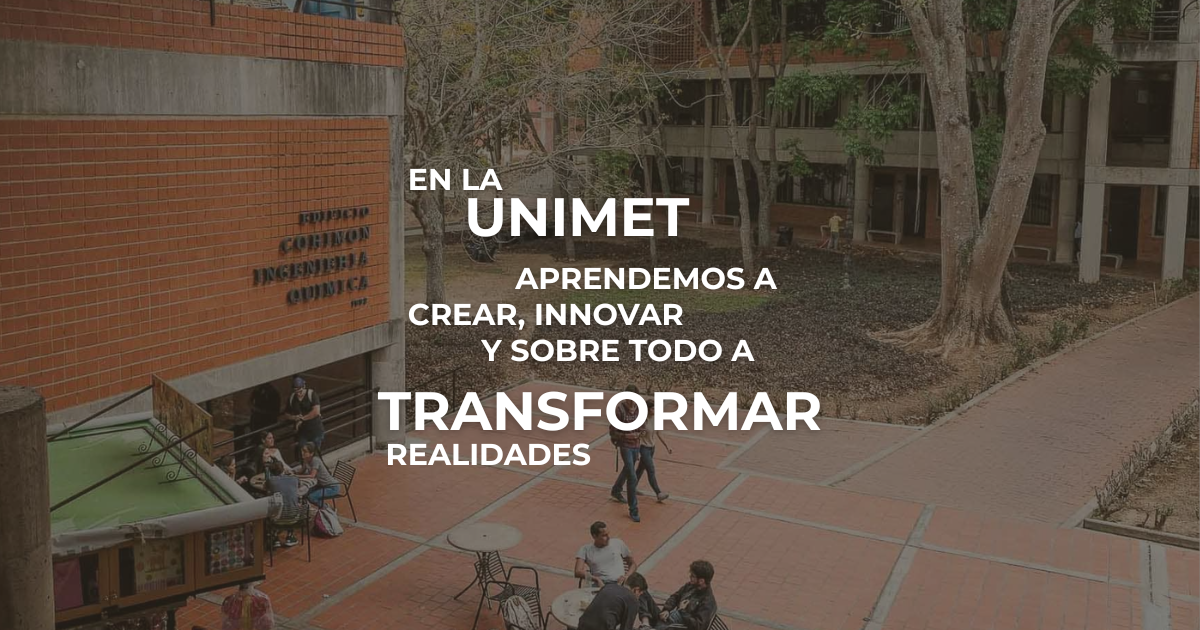
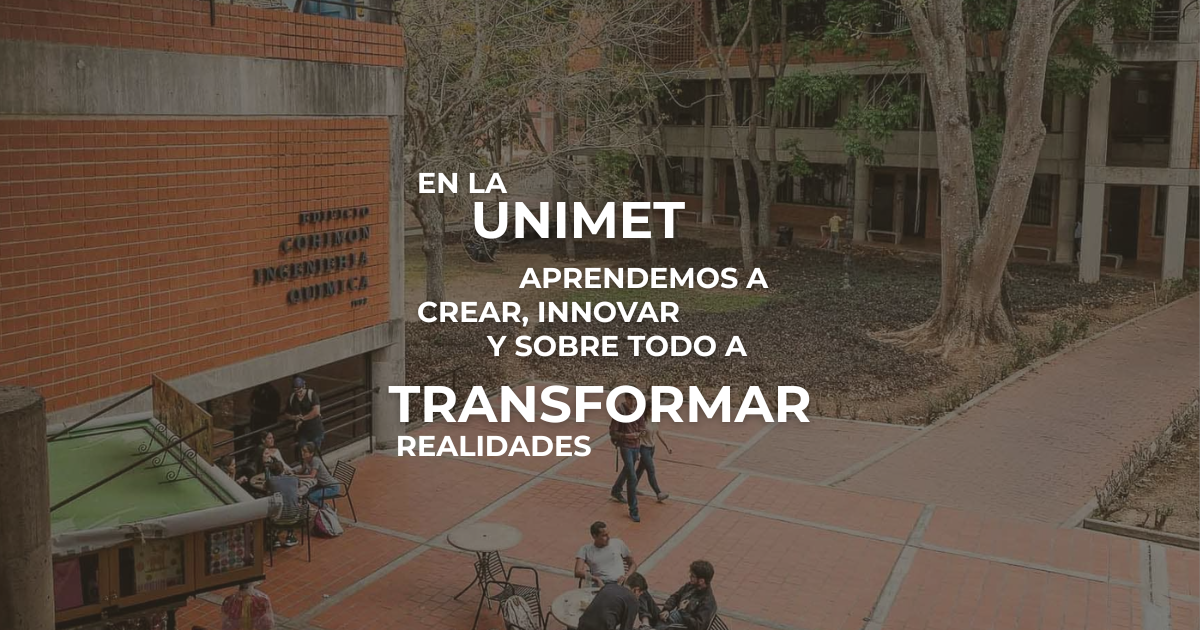
Cambios xs

Changed region(s): [[0.3083, 0.6032, 0.7092, 0.754], [0.3392, 0.4222, 0.6475, 0.573], [0.3392, 0.2714, 0.5858, 0.3921]]

diff --git a/src/Components/Navbar/Navbar.css b/src/Components/Navbar/Navbar.css
@@ -4,6 +4,8 @@
   background-color: #F67E08;
   display: flex;
   flex-direction: column;
+  padding-left: 1rem;
+  padding-right: 1rem;
 }
 
 @media (min-width: 768px) {
@@ -58,12 +60,15 @@
 }
 
 
-.Link_Nosotros:hover {
-  background-color: #D46D07;
-  font-weight: bold;
-  cursor: pointer;
-}
 
+@media (min-width: 768px) {
+
+  .Link_Nosotros:hover {
+    background-color: #D46D07;
+    font-weight: bold;
+    cursor: pointer;
+  }
+}
 
 .Link {
   color: white;

diff --git a/src/Pages/About/About.css b/src/Pages/About/About.css
@@ -1,7 +1,10 @@
+html {
+ 
+}
 .about-page {
   font-family: 'Montserrat', sans-serif;
   color: #1e1e1e;
-  background-color: #f5f5f5;
+  background-color: #f67e08;
   overflow-x: hidden;
 }
 
@@ -17,7 +20,6 @@
   text-align: center;
   padding: 8rem 2rem 4rem; /* Valor base para desktop */
   margin: 0 1% 4rem;
-  border-radius: 12px;
   box-shadow: 0 8px 24px rgba(0,0,0,0.1);
 }
 

diff --git a/src/Components/DasboardAdmin/DashboardAdmin.css b/src/Components/DasboardAdmin/DashboardAdmin.css
@@ -46,7 +46,7 @@ font-size: 3.22rem;}
   text-align: center;
   cursor: pointer;
   transition: all 0.3s ease;
-  border-top: 6px solid #f67e08;
+  border-top: 6px solid #afaeae;
 }
 
 .dashboard-card:hover {

diff --git a/src/Components/DashboardProfesor/DashboardProfesor.css b/src/Components/DashboardProfesor/DashboardProfesor.css
@@ -41,6 +41,7 @@
   display: flex;
   flex-direction: column;
   align-items: center;
+  border-top: 6px solid #afaeae;
 }
 
 .dashboard-card:hover {
